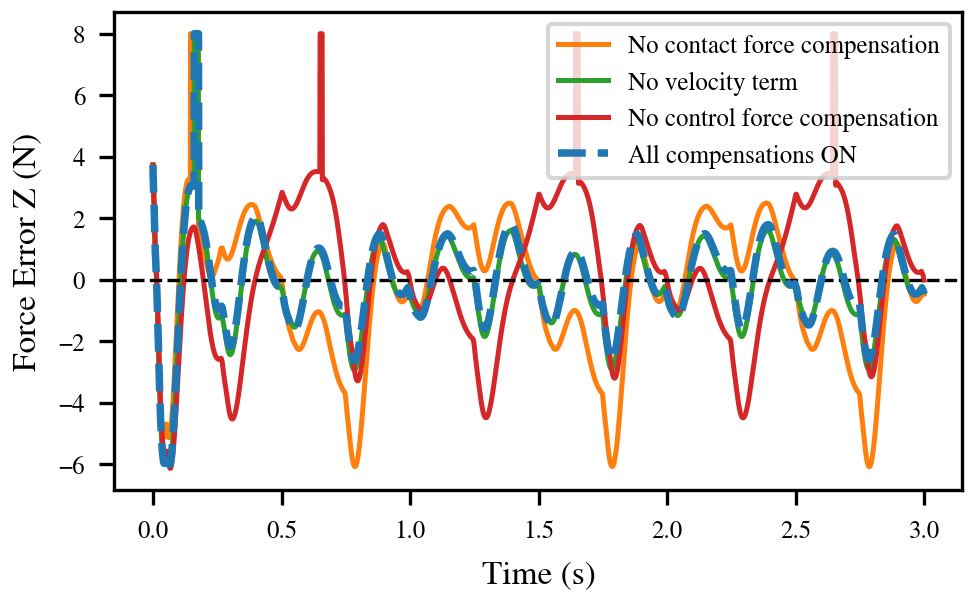
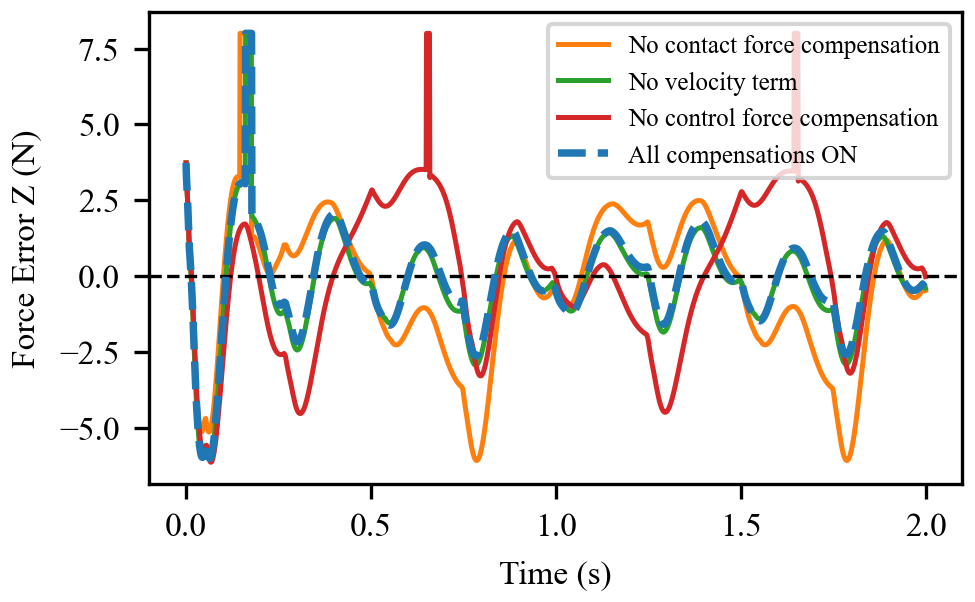
update compensation term plot

diff --git a/master_thesis_latex/main.tex b/master_thesis_latex/main.tex
@@ -1403,6 +1403,18 @@ dynamic coupling between the force subspace and other subspaces:
     \label{eq:paper_method}
 \end{equation}
 
+\begin{figure}[htbp]
+    \centering
+    % TODO (PLOT): Decomposition plot: F_desired, compensation term,
+    % velocity term, and their sum vs. actual contact force.
+    \missingfigure{Decomposition: $F_\text{desired}$, compensation, velocity term, and sum vs.\ actual force}
+    \caption{Decomposition of the force control signal showing
+             $F_\text{desired}$, the compensation term, the velocity term,
+             and their sum compared with the actual contact force.}
+    \label{fig:force_decomposition}
+\end{figure}
+
+
 \section{Motion Control Law}
 \label{sec:motion_ctrl}
 
@@ -1456,6 +1468,17 @@ The law relies on sufficiently high \(K_p\) and \(K_d\) to suppress
 tracking error, and is found to be stable and accurate for circle drawing
 across the tested speed range (\(\omega = \pi \times 0.1\) to
 \(\pi \times 5\,\mathrm{rad/s}\)).
+
+\begin{figure}[htbp]
+    \centering
+    % TODO (PLOT): EE position tracking: X, Y, Z vs. time (desired vs.
+    % actual) for slow (π/4) and fast (π) circle speeds.
+    \missingfigure{End-effector position tracking X, Y, Z vs.\ time at $\pi/4$ and $\pi$\,rad/s}
+    \caption{End-effector position tracking (desired vs.\ actual) for the
+             slow ($\pi/4$\,rad/s, top) and fast ($\pi$\,rad/s, bottom)
+             circle speeds.}
+    \label{fig:ee_position_tracking}
+\end{figure}
 
 
 \section{Null-Space Control}
@@ -1745,10 +1768,9 @@ together with their respective variances.
 During the initial approach phase the robot closes contact from free space;
 this produces transient force spikes of up to $-10\,\mathrm{N}$ that are
 unrelated to steady-state control quality.
-Accordingly, force metrics are computed only over the interval
+Accordingly, force metrics and position error are computed only over the interval
 $[1\,\mathrm{s},\,10\,\mathrm{s}]$, discarding the first 1000 samples
 (at $\Delta t = 1\,\mathrm{ms}$) to exclude the approach transient.
-Position error is however computed over the full $10\,\mathrm{s}$ window.
 
 \subsection{Force Tracking Results}
 
@@ -1830,9 +1852,8 @@ yields $e_F = -10 - (-8) = -2\,\mathrm{N}$.
 \begin{figure}[htbp]
     \centering
     \includegraphics[width=0.7\textwidth]{images/speed_3.4/position_tracking_xyz.png}
-    \caption{End-effector position tracking in $x$, $y$, and $z$ for all controllers
-    at speed multiplier $3.4\times$.
-    All controllers achieve comparable and accurate motion tracking.
+    \caption{End-effector position tracking in $x$, $y$, and $z$ at speed multiplier $3.4\times$.
+    All controllers achieve comparable and accurate motion tracking. Mean and maximum absolute errors are computed per axis and over $t > 1\,\text{s}$.
     In $x$: avg 4.6--4.8\,mm, max 8.2--10.4\,mm across all methods.
     In $y$: avg 1.6--2.1\,mm, max 3.1--3.5\,mm across all methods.
     In $z$: Feedforward deviates most (avg 4.7\,mm, max 10.9\,mm),
@@ -1919,7 +1940,7 @@ error of $0.524\,\mathrm{N}$, demonstrating (to be filled).
         \includegraphics[width=\linewidth]{images/speed_3.8/position_tracking_xyz.png}
         \caption{End-effector position tracking in $x$, $y$, and $z$ for all
         controllers at speed multiplier $3.8\times$.
-        All controllers achieve comparable and accurate motion tracking.
+        All controllers achieve comparable and accurate motion tracking. Mean and maximum absolute errors are computed per axis and over $t > 1\,\text{s}$.
         In $x$: avg 5.0--5.7\,mm, max 8.4--11.6\,mm across all methods.
         In $y$: avg 2.6--4.7\,mm, max 4.4--8.6\,mm.
         In $z$: Feedforward deviates most (avg 6.2\,mm, max 14.7\,mm),
@@ -1957,8 +1978,7 @@ range, with HFDC+PI achieving the lowest steady-state force error at every speed
     \captionsetup[subfigure]{font=small}
     \begin{subfigure}[t]{0.48\linewidth}
         \includegraphics[width=\linewidth]{images/speed_4.4/force_tracking.png}
-        \caption{Signed force error $e_F = F_z - F_d$ for all controllers
-        at speed multiplier $4.4\times$.
+        \caption{Signed force error $e_F = F_z - F_d$ for all controllers.
         All controllers exhibit marked deterioration compared to lower speeds.
         Mean and maximum absolute errors (computed over $t > 1\,\text{s}$):\\
         FF: avg $= 8.042\,\text{N}$, max $= 37.232\,\text{N}$;\\
@@ -1972,7 +1992,7 @@ range, with HFDC+PI achieving the lowest steady-state force error at every speed
     \begin{subfigure}[t]{0.48\linewidth}
         \includegraphics[width=\linewidth]{images/speed_4.4/position_tracking_xyz.png}
         \caption{End-effector position tracking in $x$, $y$, and $z$ for all
-        controllers at speed multiplier $4.4\times$.
+        controllers. Mean and maximum absolute errors are computed per axis and over $t > 1\,\text{s}$:
         PD becomes effectively unstable across all axes
         ($x$: avg 88.3\,mm, max 466.8\,mm;
          $y$: avg 34.8\,mm, max 235.1\,mm;
@@ -2106,25 +2126,38 @@ To isolate the effect of surface friction on force tracking performance, a separ
 
 \begin{figure}[htbp]
     \centering
-    % Row 1
-    \begin{subfigure}[b]{0.9\textwidth}
-        \includegraphics[width=\textwidth]{images/compensation_comparison/compensation_comparison.png}
-        \caption{Frictionless contact (condim\,=\,1).}
+    \begin{subfigure}[b]{0.6\textwidth}
+        \includegraphics[width=\textwidth]{images/compensation_comparison/frictionless/compensation_comparison.png}
+        \caption{Frictionless contact (condim\,=\,1).
+        Mean and maximum absolute errors $|e_F|$ (computed over $t > 1\,\text{s}$):\\
+        No contact force comp.: avg $= 0.257\,\text{N}$, max $= 0.602\,\text{N}$;\\
+        No velocity term: avg $= 0.285\,\text{N}$, max $= 0.957\,\text{N}$;\\
+        No control force comp.: avg $= 1.726\,\text{N}$, max $= 4.533\,\text{N}$;\\
+        All compensations ON: avg $= 0.257\,\text{N}$, max $= 0.602\,\text{N}$.}
         \label{fig:compensation_comparison}
     \end{subfigure}
 
-    \vspace{0.5em}  % vertical gap between rows
+    \vspace{0.5em}
 
-    % Row 2
-    \begin{subfigure}[b]{0.9\textwidth}
-        \includegraphics[width=\textwidth]{images/compensation_comparison/compensation_comparison_surface_friction.png}
-        \caption{Frictional contact ($\mu_s = 0.7$).}
+    \begin{subfigure}[b]{0.6\textwidth}
+        \includegraphics[width=\textwidth]{images/compensation_comparison/friction_0.7/compensation_comparison.png}
+        \caption{Frictional contact ($\mu_s = 0.7$).
+        Mean and maximum absolute errors $|e_F|$ (computed over $t > 1\,\text{s}$):\\
+        No contact force comp.: avg $= 1.698\,\text{N}$, max $= 6.082\,\text{N}$;\\
+        No velocity term: avg $= 0.867\,\text{N}$, max $= 2.910\,\text{N}$;\\
+        No control force comp.: avg $= 1.731\,\text{N}$, max $= 8.000\,\text{N}$;\\
+        All compensations ON: avg $= 0.879\,\text{N}$, max $= 2.595\,\text{N}$.}
         \label{fig:compensation_comparison_surface_friction}
     \end{subfigure}
 
-    \caption{Force tracking error time series for each compensation term variant of HFDC, at angular speed $\omega = 2\pi$~rad/s. Each curve removes one term from the full force control law~\eqref{eq:paper_method} while keeping all others active.}
+    \caption{Force tracking error time series for each compensation term
+    variant of HFDC, at angular speed $\omega = 2\pi$~rad/s. Each curve
+    removes one term from the full force control law~\eqref{eq:paper_method}
+    while keeping all others active.}
     \label{fig:compensation_term_analysis}
 \end{figure}
+
+
 
 \subsection{Contact Force Compensation Analysis}
 To further understand the source of this friction-induced degradation, Figure~\ref{fig:compensation_comparison_surface_frictio} isolates the contribution of each compensation term in the force control law under the same frictional conditions ($\mu_s = 0.7$) and at same angular speed $\omega = 2\pi\,\mathrm{rad/s}$. The four variants compared are: the full controller with all terms active, and three cases in which the contact force compensation, velocity term, and control force compensation are each individually removed.

diff --git a/compensation_comparison/plot_comparison.py b/compensation_comparison/plot_comparison.py
@@ -17,6 +17,13 @@ import numpy as np
 from tueplots import bundles
 
 plt.rcParams.update(bundles.icml2024(usetex=False))
+plt.rcParams.update({
+    "font.size": 10,
+    "axes.labelsize": 8,
+    "xtick.labelsize": 8,
+    "ytick.labelsize": 8,
+    # "legend.fontsize": 14,
+})
 
 CONFIGS = [
     {
@@ -53,7 +60,7 @@ CONFIGS = [
     },
 ]
 
-PLOT_DURATION_S = 3.0
+PLOT_DURATION_S = 2.0
 DT = 0.001
 
 
